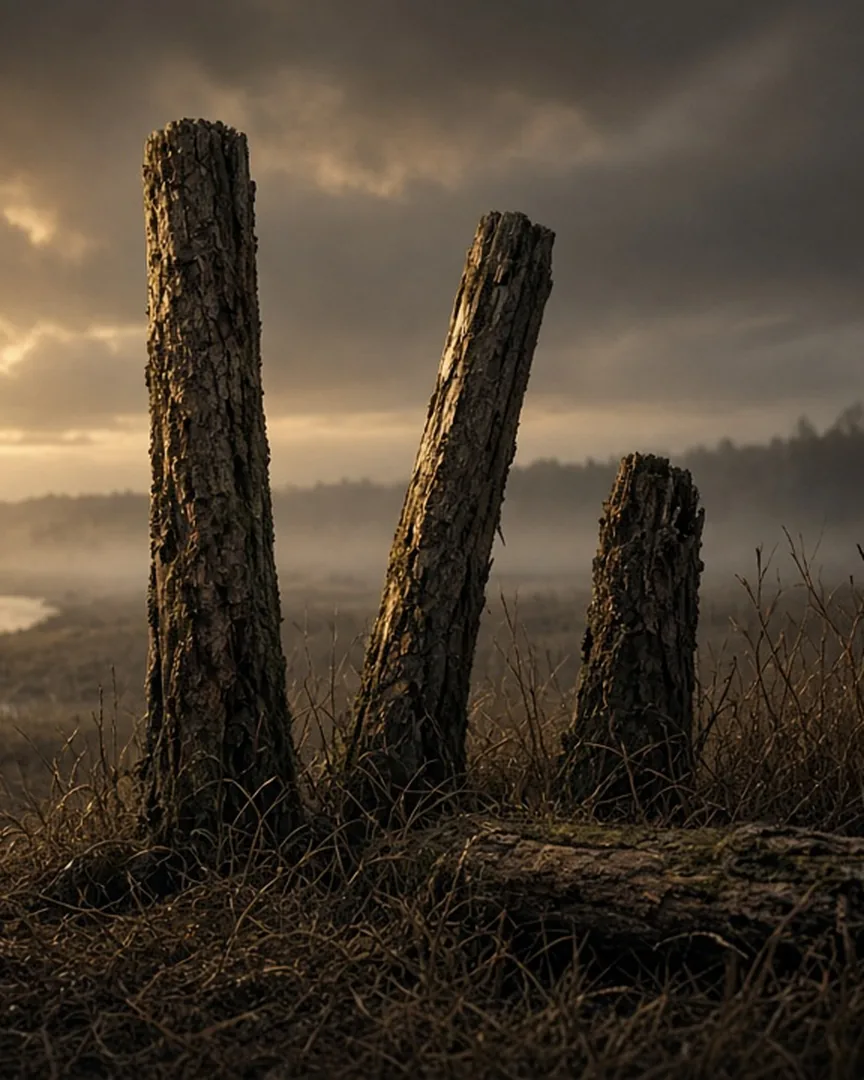
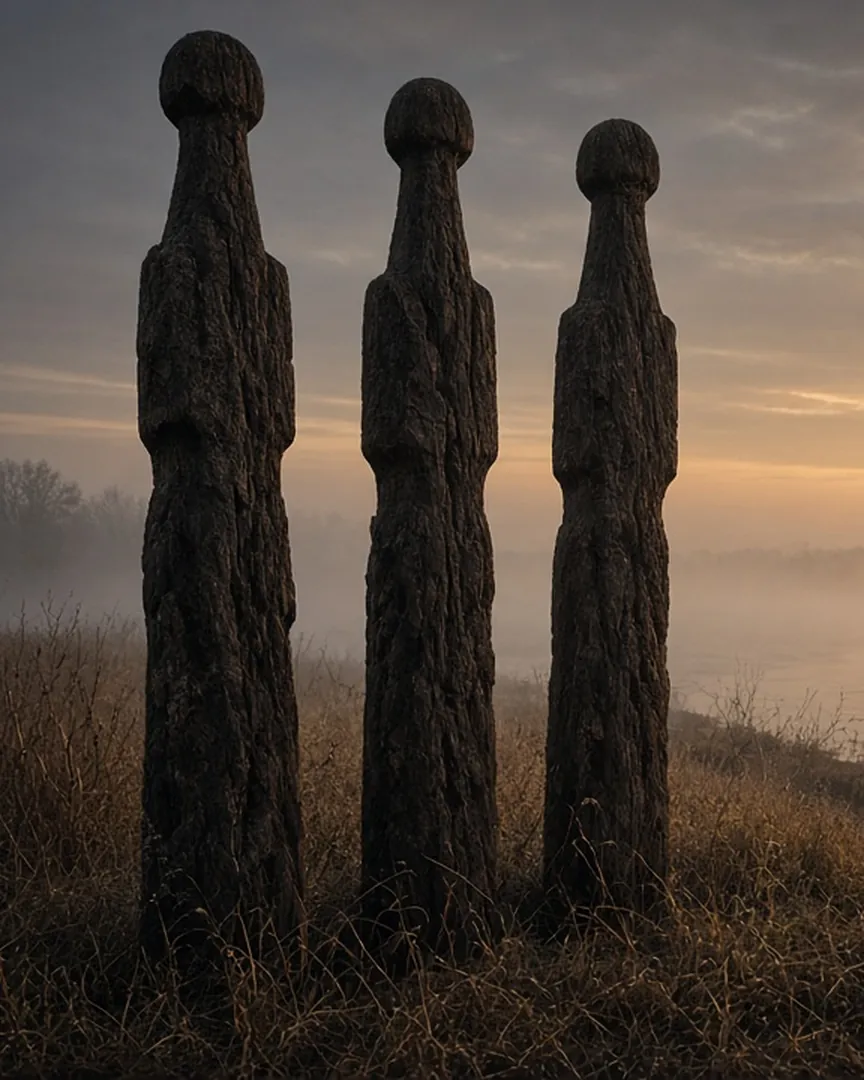
Hero и превью: новая картинка (три тёсаных столба у реки), честные alt/og:image:alt, twitter:image:alt; ?v=2 у hero, ?v=4 у og.jpg

diff --git a/index.html b/index.html
@@ -15,14 +15,15 @@
 <meta property="og:title" content="Славянские боги — что известно">
 <meta property="og:description" content="Имя в источнике, гипотеза или выдумка: честный разбор славянских богов с короткой озвучкой.">
 <meta property="og:url" content="https://shleenkov88.github.io/slavic-gods/">
-<meta property="og:image" content="https://shleenkov88.github.io/slavic-gods/img/og.jpg?v=3">
+<meta property="og:image" content="https://shleenkov88.github.io/slavic-gods/img/og.jpg?v=4">
 <meta property="og:image:width" content="1200">
 <meta property="og:image:height" content="630">
-<meta property="og:image:alt" content="Перун на фоне грозового неба">
+<meta property="og:image:alt" content="Три тёсаных деревянных столба с намеченной головой, без лиц, у реки в тумане на закате (художественный образ)">
 <meta name="twitter:card" content="summary_large_image">
 <meta name="twitter:title" content="Славянские боги — что известно">
 <meta name="twitter:description" content="Имя в источнике, гипотеза или выдумка: честный разбор славянских богов с короткой озвучкой.">
-<meta name="twitter:image" content="https://shleenkov88.github.io/slavic-gods/img/og.jpg?v=3">
+<meta name="twitter:image" content="https://shleenkov88.github.io/slavic-gods/img/og.jpg?v=4">
+<meta name="twitter:image:alt" content="Три тёсаных деревянных столба с намеченной головой, без лиц, у реки в тумане на закате (художественный образ)">
 <link rel="preload" href="fonts/ruslan-display-normal-400-cyrillic.woff2" as="font" type="font/woff2" crossorigin>
 <link rel="preload" href="fonts/philosopher-normal-400-cyrillic.woff2" as="font" type="font/woff2" crossorigin>
 <link rel="stylesheet" href="styles.css?v=20261004u">
@@ -67,7 +68,7 @@
   </div>
   <figure>
     <div class="ill" role="note"><strong>⚠ ИЛЛЮСТРАЦИЯ</strong><span>Это художественная реконструкция, а не исторический портрет или точное изображение идола.</span></div>
-    <img src="img/hero.webp?v=1" srcset="img/hero-sm.webp?v=1 512w, img/hero-md.webp?v=1 640w, img/hero.webp?v=1 864w" sizes="(max-width: 860px) calc(100vw - 48px), 520px" width="864" height="1080" fetchpriority="high" decoding="async" alt="Три старых деревянных столба без лиц в траве у реки на закате (художественный образ)">
+    <img src="img/hero.webp?v=2" srcset="img/hero-sm.webp?v=2 512w, img/hero-md.webp?v=2 640w, img/hero.webp?v=2 864w" sizes="(max-width: 860px) calc(100vw - 48px), 520px" width="864" height="1080" fetchpriority="high" decoding="async" alt="Три тёсаных деревянных столба с намеченной головой, без лиц, у реки в тумане на закате (художественный образ)">
     <figcaption>Художественный образ: деревянные идолы до нас целыми не дошли, остались упоминания в источниках и находки. Картинка не изображает конкретного бога или найденный идол.</figcaption>
   </figure>
 </header>
